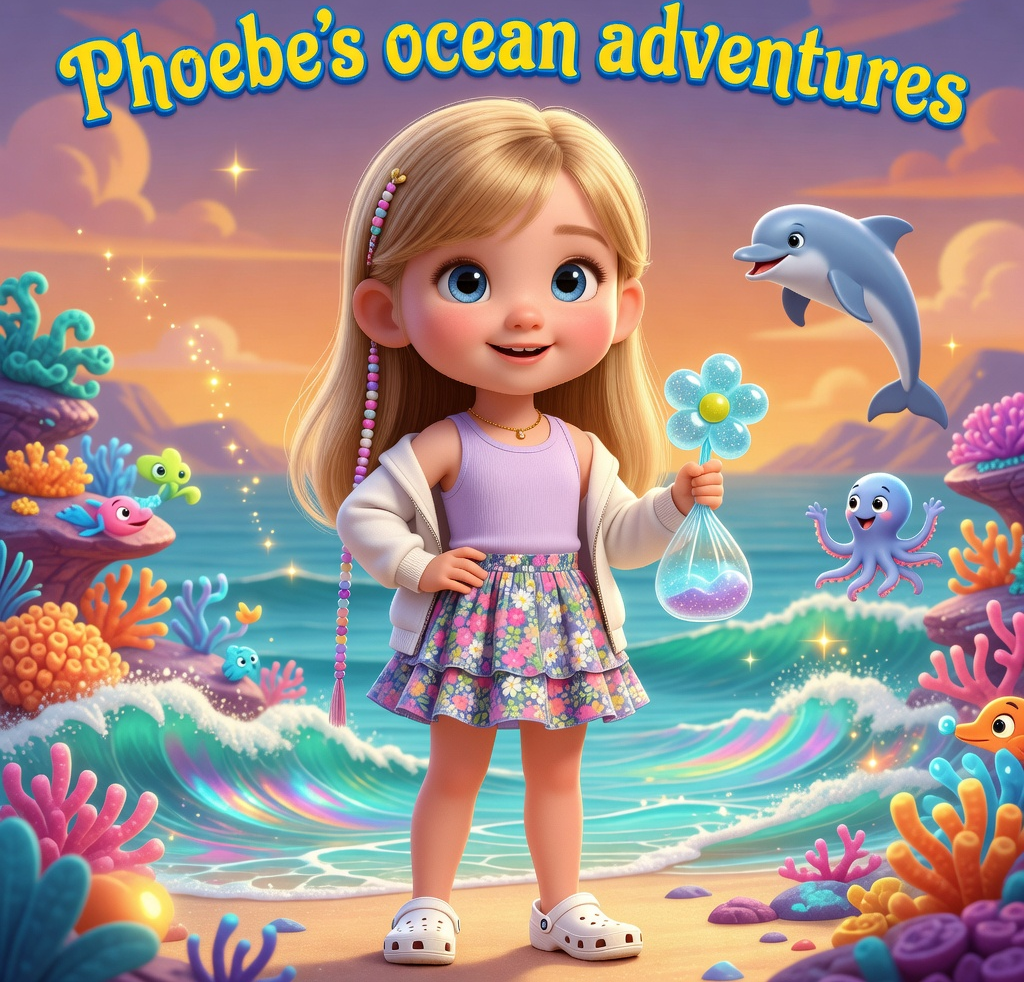
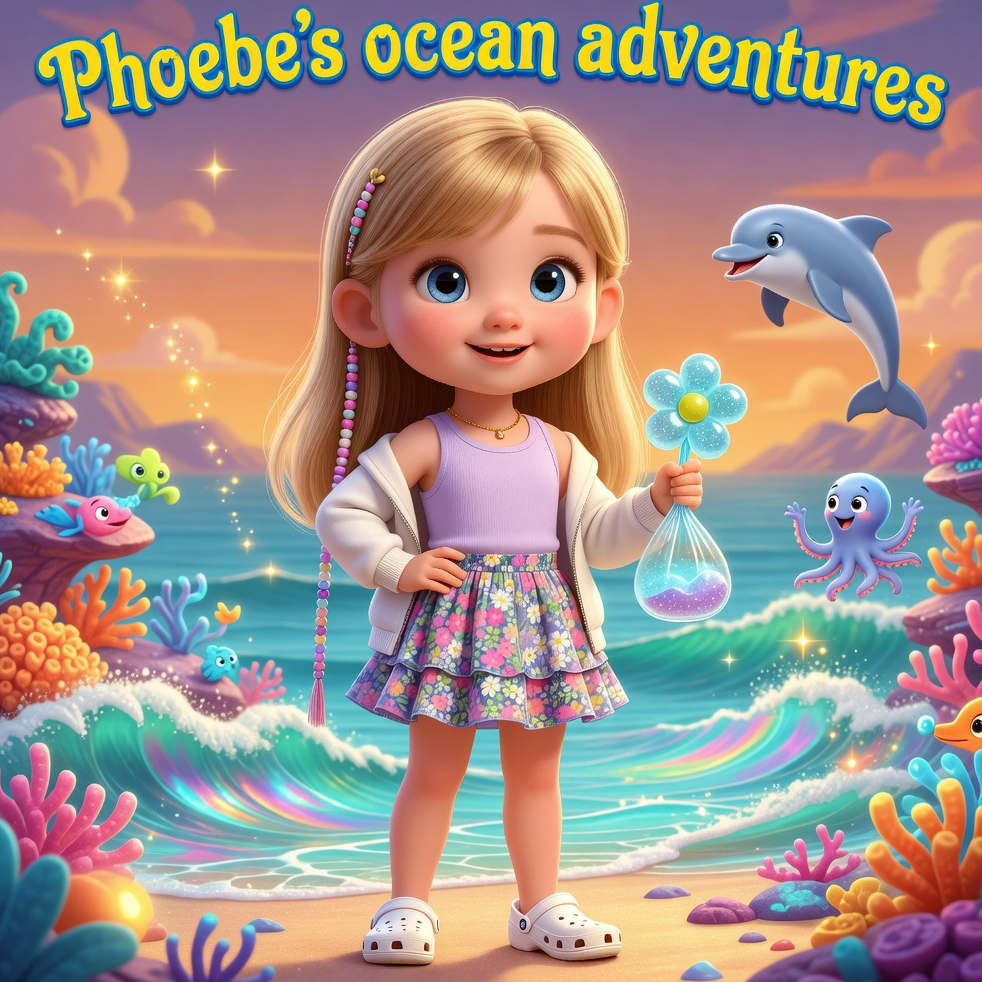
Update generation logic and sync cover images and assets
Replit-Commit-Author: Agent

diff --git a/artifacts/api-server/src/lib/generation.ts b/artifacts/api-server/src/lib/generation.ts
@@ -12,36 +12,38 @@ const uploadsDir = path.resolve(process.cwd(), "uploads");
 const execFileAsync = promisify(execFile);
 
 /**
- * Trim near-white borders that Aurora bakes into generated images.
- * Uses ImageMagick: detects the border colour from the image corners and
- * removes any edges within 10% colour distance of it, then re-pads to a
- * perfect square so the image ratio stays 1:1 for the cover face.
+ * Process an Aurora-generated image:
+ * 1. Trim near-white borders (-fuzz 10%).
+ * 2. For covers: crop to a 1:1 square (gravity North — keeps the title at the
+ *    top and removes excess from the bottom) so objectFit:cover in the 1:1
+ *    landscape/portrait cover container is always a perfect, zero-crop fill.
+ * 3. For other images (characters, pages): trim only, preserve natural ratio.
  */
-async function trimWhiteBorder(buf: Buffer): Promise<Buffer> {
+async function processImage(buf: Buffer, toSquare: boolean): Promise<Buffer> {
   try {
-    // Write input to a temp file
-    const tmp = `/tmp/trim-in-${Date.now()}.png`;
-    const out = `/tmp/trim-out-${Date.now()}.png`;
+    const tmp = `/tmp/img-in-${Date.now()}.png`;
+    const out = `/tmp/img-out-${Date.now()}.png`;
     await writeFile(tmp, buf);
 
-    // Trim white border (-fuzz 10% tolerates slight off-white shades),
-    // then extent back to a square using the image's longer dimension
-    // so the output is always 1:1 and centred on a white canvas.
-    await execFileAsync("magick", [
-      tmp,
-      "-fuzz", "10%",
-      "-trim",
-      "+repage",
-      out,
-    ]);
+    const args = [tmp, "-fuzz", "10%", "-trim", "+repage"];
+
+    if (toSquare) {
+      // Crop to min(w,h) × min(w,h) from the top — keeps the title visible
+      args.push(
+        "-gravity", "North",
+        "-extent", "%[fx:min(w,h)]x%[fx:min(w,h)]",
+      );
+    }
+
+    args.push(out);
+    await execFileAsync("magick", args);
 
     const { readFile, unlink } = await import("fs/promises");
     const result = await readFile(out);
     await Promise.all([unlink(tmp).catch(() => {}), unlink(out).catch(() => {})]);
     return result;
   } catch (err) {
-    // If trimming fails for any reason, return original buffer unchanged
-    logger.warn({ err }, "trimWhiteBorder failed — using original image");
+    logger.warn({ err }, "processImage failed — using original buffer");
     return buf;
   }
 }
@@ -51,10 +53,13 @@ async function saveImage(buf: Buffer, subdir: string): Promise<string> {
   await mkdir(dir, { recursive: true });
   const filename = `${Date.now()}-${Math.random().toString(36).slice(2)}.png`;
   const fullPath = path.join(dir, filename);
-  // Trim white borders from Aurora-generated cover and character images
-  const processed = (subdir === "covers" || subdir === "characters")
-    ? await trimWhiteBorder(buf)
-    : buf;
+  // Covers → trim white + crop to 1:1 square (perfect fit in square container)
+  // Characters/pages → trim white only, keep natural ratio
+  const processed = subdir === "covers"
+    ? await processImage(buf, true)
+    : (subdir === "characters" || subdir === "pages")
+      ? await processImage(buf, false)
+      : buf;
   await writeFile(fullPath, processed);
   return path.join(subdir, filename);
 }
